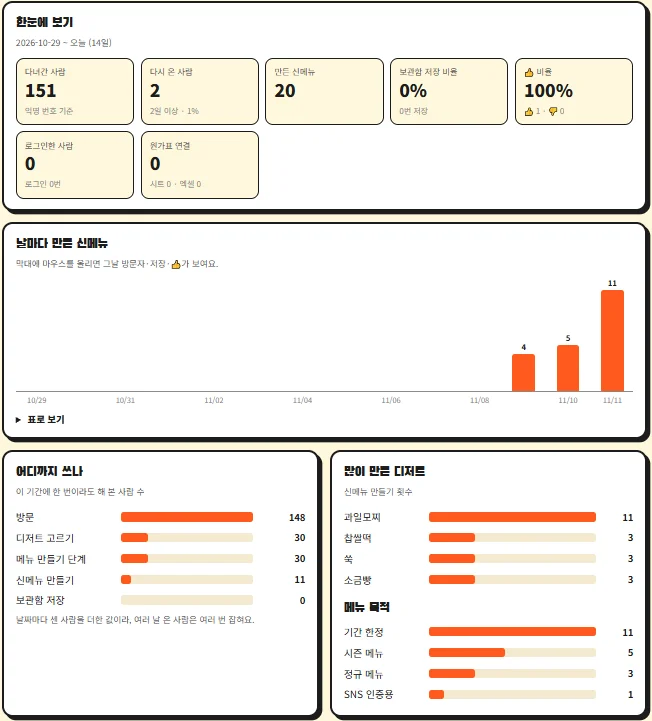
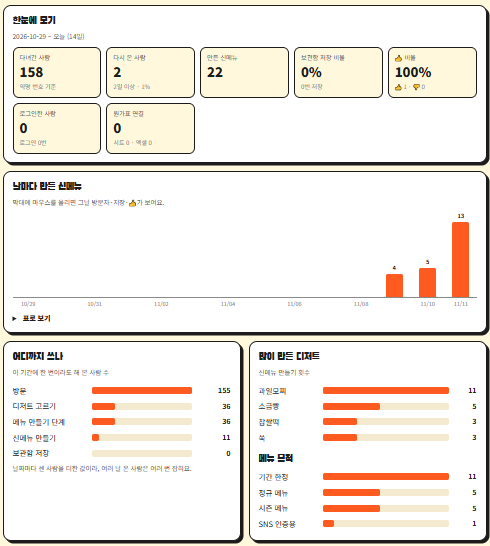
README 관리자 통계 화면과 슬라이드 15번을 새 화면으로 교체
Claude-Session: https://claude.ai/code/session_01Bw8XKDyTW3H4sQFdUcPtca

Changed region(s): [[0.0, 0.0, 1.0, 1.0], [0.6429, 0.7161, 0.9184, 0.8095], [0.8571, 0.467, 0.8878, 0.4982]]

diff --git a/README.md b/README.md
@@ -181,7 +181,7 @@ for (let i = 1; i <= 3; i++) {
 
 ## 8. 관리자 통계 — 주인만 보는 페이지
 
-사장님들이 사이트를 어떻게 쓰는지 **이름·이메일 없이 익명**으로 모읍니다. 서버 비밀 열쇠가 있어야 열리고, 주인 브라우저는 한도 없음 · 통계에서도 빠집니다. 메뉴마다 원가율과 걸린 초를 남겨 AI 결과 품질도 점검합니다.
+사장님들이 사이트를 어떻게 쓰는지 **이름·이메일 없이 익명**으로 모읍니다. 서버 비밀 열쇠가 있어야 열리고, 주인 브라우저는 한도 없음 · 통계에서도 빠집니다. 메뉴마다 원가율과 걸린 초를 남겨 AI 결과 품질도 점검합니다. 다시 온 사람, 👍 만족도, 로그인한 사람, 원가표 연결 수도 함께 봐서 사장님들이 실제로 계속 쓰는지 확인합니다.
 
 <p align="center">
   <img src="./docs/readme/shots/stats-dash.webp" alt="관리자 통계 한눈에 보기" width="46%" />
